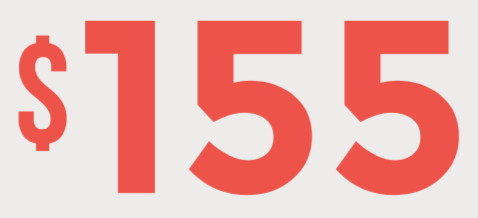
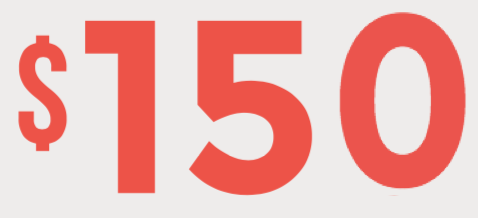
change 155 to 150

Changed region(s): [[0.7029, 0.1651, 0.9958, 0.9083], [0.7029, 0.055, 0.9372, 0.2752], [0.9372, 0.6881, 0.9665, 0.7706]]

diff --git a/sass/_pricing.scss b/sass/_pricing.scss
@@ -55,7 +55,7 @@
 }
 
 .pricing img.red-price {
-    max-width: 130px;
+    max-width: 120px;
     margin: 0 auto;
     display: block;
 }
